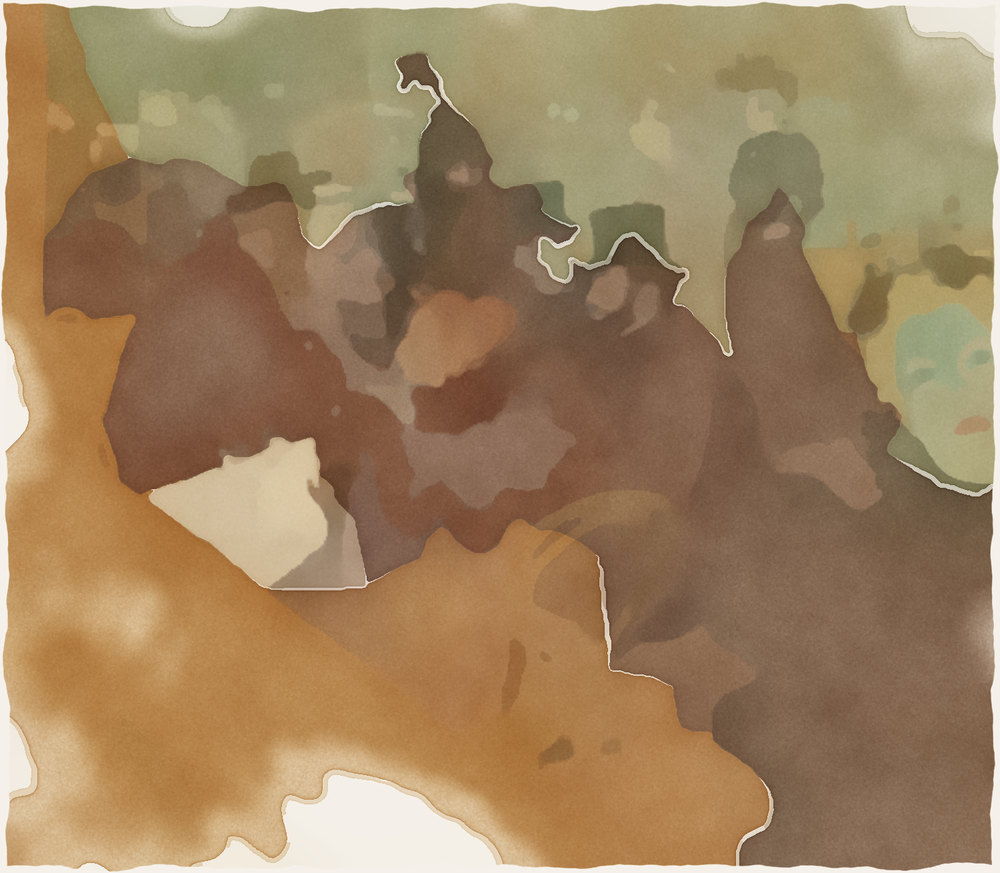
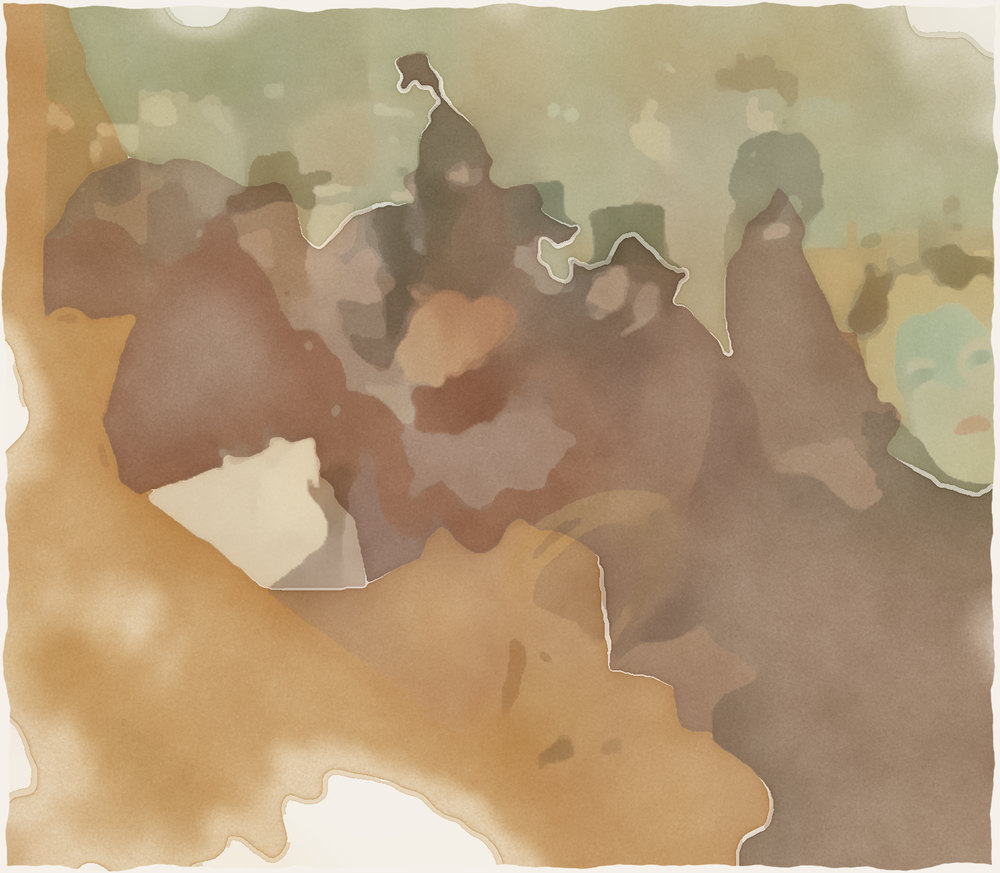
Composition sheet: the wash comes up evenly and is as light as before
Mateusz 2026-11-12 10:54 UTC, having seen round 5: the sheet drawing
itself is right; "akwarela niech płynnie wchodzi po całości, a nie
'rozlewa się'" and "akwarela jednak jaśniejsza - tak jak wcześniej".

- App: the stains' mask is the whole sheet rising in opacity
  (SheetPlan.washShown), no longer blooms spreading from places.
- Server: LOOK 4 lays the light page's stains as light as before LOOK 3
  (DEPTH and BARE_MOST_LIGHT are gone); the fewer, flatter masses, the
  hatching and the two layers stay. Sheets are made again.
- Demo sheets rendered again (only the light washes change).

Claude-Session: https://claude.ai/code/session_011kjvXCCNEnKht2VyfVZLdn

diff --git a/ios/Frame/Views/Discover/SheetDrawing.swift b/ios/Frame/Views/Discover/SheetDrawing.swift
@@ -2,7 +2,7 @@ import SwiftUI
 
 /// The study sheet laid down before the reader, as if made now: the pen
 /// first, stroke after stroke along the lines the server drew it by, then
-/// the stains spreading under it and the pen shading the dark parts, then
+/// the stains coming up under it and the pen shading the dark parts, then
 /// (told through `onMarks`) the chalk. Mateusz 2026-11-12, having waited
 /// on an empty ruled sheet: "Czy mógłby pojawiać się szybciej? malować /
 /// rysować się na żywo?".
@@ -120,7 +120,7 @@ enum SheetPlan {
     static let pen = 1.5
     /// The least a stroke takes, however short.
     static let dash = 0.14
-    /// The stains spread from here on, for this long.
+    /// The stains come up from here on, for this long.
     static let washFrom = 0.8
     static let wash = 1.7
     /// The pen shades the dark parts (and whatever of it the strokes left).
@@ -200,46 +200,19 @@ enum SheetPlan {
         )
     }
 
-    /// Where a stain starts to spread and when (of the wash's time, 0…1),
-    /// on a sheet cut into cells of about a third of its short side; the
-    /// same for the same sheet.
-    static func blooms(in size: CGSize) -> [(centre: CGPoint, from: Double, reach: CGFloat)] {
-        let cell = max(40, min(size.width, size.height) / 3)
-        let columns = max(2, Int((size.width / cell).rounded())), rows = max(2, Int((size.height / cell).rounded()))
-        let wide = size.width / CGFloat(columns), tall = size.height / CGFloat(rows)
-        var out: [(centre: CGPoint, from: Double, reach: CGFloat)] = []
-        for row in 0..<rows {
-            for column in 0..<columns {
-                let seed = row * 31 + column * 7
-                let x = (CGFloat(column) + 0.25 + 0.5 * CGFloat(Pencil.Jitter.random(seed + 1))) * wide
-                let y = (CGFloat(row) + 0.25 + 0.5 * CGFloat(Pencil.Jitter.random(seed + 2))) * tall
-                // Each a little after its neighbour to the upper left, none in step.
-                let along = Double(row + column) / Double(max(1, rows + columns - 2))
-                let from = 0.45 * (0.7 * along + 0.3 * Pencil.Jitter.random(seed + 3))
-                out.append((centre: CGPoint(x: x, y: y), from: from, reach: 1.15 * hypot(wide, tall)))
-            }
-        }
-        return out
+    /// How much of the stains shows at `time` (0…1): they come all over
+    /// the sheet at once, slowly at first and at the end. Mateusz
+    /// 2026-11-12 10:54, of the stains that spread from places: "akwarela
+    /// niech płynnie wchodzi po całości, a nie 'rozlewa się'".
+    static func washShown(at time: Double) -> Double {
+        let part = min(1, max(0, (time - washFrom) / wash))
+        return part * part * (3 - 2 * part)
     }
 
-    /// The stains at `time`: each spreading from its place with a soft
-    /// edge, as paint runs into wet paper, until they are one.
+    /// The stains at `time`: the whole of them, as far as they show.
     static func washMask(in context: inout GraphicsContext, size: CGSize, time: Double) {
-        let spread = min(1, max(0, (time - washFrom) / wash))
-        guard spread > 0 else { return }
-        var soft = context
-        soft.addFilter(.blur(radius: max(8, 0.035 * min(size.width, size.height))))
-        soft.drawLayer { layer in
-            for bloom in blooms(in: size) {
-                let grown = min(1, max(0, (spread - bloom.from) / (1 - 0.45)))
-                guard grown > 0 else { continue }
-                // Quick at first, slowing as the paint thins out.
-                let radius = bloom.reach * CGFloat(1 - pow(1 - grown, 2.2))
-                layer.fill(
-                    Path(ellipseIn: CGRect(x: bloom.centre.x - radius, y: bloom.centre.y - radius, width: 2 * radius, height: 2 * radius)),
-                    with: .color(.black)
-                )
-            }
-        }
+        let shown = washShown(at: time)
+        guard shown > 0 else { return }
+        context.fill(Path(CGRect(origin: .zero, size: size)), with: .color(.black.opacity(shown)))
     }
 }

diff --git a/ios/FrameTests/CompositionSheetTests.swift b/ios/FrameTests/CompositionSheetTests.swift
@@ -265,13 +265,15 @@ final class CompositionSheetTests: XCTestCase {
         XCTAssertEqual(SheetPlan.line(ring, in: size).last, CGPoint.zero)
         XCTAssertGreaterThan(SheetPlan.line(DailyWork.Stroke(points: open.points), in: size).count, 10)
         XCTAssertTrue(SheetPlan.line(DailyWork.Stroke(points: [Spot(x: 0, y: 0)]), in: size).isEmpty)
-        // The stains spread from places all over the sheet, each reaching
-        // past its neighbours, the same every time.
-        let blooms = SheetPlan.blooms(in: CGSize(width: 390, height: 280))
-        XCTAssertGreaterThanOrEqual(blooms.count, 6)
-        XCTAssertTrue(blooms.allSatisfy { $0.from >= 0 && $0.from <= 0.45 && $0.reach > 100 })
-        XCTAssertTrue(blooms.allSatisfy { CGRect(x: 0, y: 0, width: 390, height: 280).contains($0.centre) })
-        XCTAssertEqual(SheetPlan.blooms(in: CGSize(width: 390, height: 280)).map { $0.centre }, blooms.map { $0.centre })
+        // The stains come up all over the sheet at once, evenly, not from
+        // places (Mateusz 2026-11-12 10:54): nothing before their time,
+        // half of them half-way, all of them at the end, never going back.
+        XCTAssertEqual(SheetPlan.washShown(at: SheetPlan.washFrom), 0)
+        XCTAssertEqual(SheetPlan.washShown(at: SheetPlan.washFrom + SheetPlan.wash / 2), 0.5, accuracy: 1e-9)
+        XCTAssertEqual(SheetPlan.washShown(at: SheetPlan.washFrom + SheetPlan.wash), 1)
+        XCTAssertEqual(SheetPlan.washShown(at: SheetPlan.whole), 1)
+        let rising = stride(from: 0.0, through: SheetPlan.whole, by: 0.05).map { SheetPlan.washShown(at: $0) }
+        XCTAssertTrue(zip(rising, rising.dropFirst()).allSatisfy { $0.0 <= $0.1 })
         // The sheet's pictures: whole from a server before the layers, else
         // its stains and its pen, for the page's colour.
         XCTAssertEqual(CompositionSketch.sheetRefs("", layers: true, dark: false), [])

diff --git a/server/src/frame_server/imaging/sheet.py b/server/src/frame_server/imaging/sheet.py
@@ -50,9 +50,6 @@ kredy rysujemy białe, to akwarelowe tło mogłoby być trochę ciemniejsze",
 … 'szkicować'/kreskować ciemniejsze partie", and the sheet should "malować
 / rysować się na żywo". So (:data:`LOOK` 3):
 
-- the light page's stains carry more paint (:data:`DEPTH`) and less of the
-  page is left bare there (:data:`BARE_MOST_LIGHT`): white chalk has to
-  show on them;
 - the masses are fewer and flatter (:data:`MASSES`, what happens inside a
   stain counts for less);
 - the pen shades the darker parts with slanted lines, here and there
@@ -61,6 +58,11 @@ kredy rysujemy białe, to akwarelowe tło mogłoby być trochę ciemniejsze",
   the pen drew with nothing around it, which the app lays down one after
   the other before the reader; :func:`render` is the two as one, for apps
   from before that.
+
+That look also laid the light page's stains deeper and left less of it
+bare. Seen on the page, he took the darker ground back (2026-11-12 10:54:
+"akwarela jednak jaśniejsza - tak jak wcześniej"): :data:`LOOK` 4 lays the
+stains as light as before it, and keeps the rest.
 
 No model is asked here; about four seconds a sheet (``sheets.Sheets``
 makes them ahead).
@@ -85,7 +87,7 @@ Array = npt.NDArray[Any]
 PenStroke = tuple[Sequence[tuple[float, float]], bool, bool]
 
 #: Raised when the look changes, so that sheets made before are made again.
-LOOK = 3
+LOOK = 4
 #: The sheet's longer side.
 LONG = 1500
 #: The app's page and ink (``Theme.paper``, ``Theme.ink``): light, dark.
@@ -103,10 +105,6 @@ QUIET_LEAST = 0.06
 ALIKE = 20.0
 #: Neighbours this near in colour are one stain anywhere.
 SAME = 16.0
-#: How much deeper than a first wash the stains are laid on the light page:
-#: the marks over them are white chalk (Mateusz 2026-11-12: "akwarelowe tło
-#: mogłoby być trochę ciemniejsze").
-DEPTH = 1.45
 #: The first pale wash under the stains, where things happen.
 FIRST = 0.3
 #: What decides where the page is left bare in a quiet place: how near the
@@ -123,8 +121,6 @@ GAP = 0.38
 #: the field that is left bare (a picture that is all sky is still painted).
 BARE_THIN = 0.2
 BARE_MOST = 0.3
-#: Less of it on the light page: white chalk is lost on bare paper.
-BARE_MOST_LIGHT = 0.2
 #: How much of the ink a stroke of the nib lays, and its width.
 NIB_INK = 0.66
 NIB = 3.3
@@ -474,7 +470,7 @@ def layers(
     rim = np.clip(1 - inset / (0.3 * min(h, w)), 0, 1)
     chance = _noise((h, w), 0.07 * max(h, w), rng) * 0.8 + _noise((h, w), 18, rng) * 0.2
     bare = (1 - lively) * (BARE_NEAR * near_map + BARE_RIM * rim + BARE_CHANCE * chance)
-    level = max(BARE, float(np.quantile(bare, 1 - (BARE_MOST if dark else BARE_MOST_LIGHT))))
+    level = max(BARE, float(np.quantile(bare, 1 - BARE_MOST)))
     painted = bare < level
     # towards a bare place the wash runs thin before it stops
     thin = np.clip((level - bare) / BARE_THIN, 0, 1)
@@ -532,7 +528,7 @@ def layers(
             canvas[part] = canvas[part] * (1 - alpha[..., None]) + (tint**1.3) * alpha[..., None]
             cover[part] = 1 - (1 - cover[part]) * (1 - alpha)
         else:
-            canvas[part] *= tint ** (aa * load * inside[part] * DEPTH)[..., None]
+            canvas[part] *= tint ** (aa * load * inside[part])[..., None]
             canvas[part] *= flat ** ((1 - aa) * halo_load * inside[part])[..., None]
     page, ink = _colour(PAGE[dark]), _colour(INK[dark])
     sheet = np.empty((h, w, 3), np.float32)

diff --git a/server/tests/test_sheet.py b/server/tests/test_sheet.py
@@ -99,15 +99,23 @@ def test_where_little_happens_the_wash_is_general_and_leaves_the_page() -> None:
     # paint still lies around what happens (the house).
     light = sheets.render(_scene(), seed=3)
     left = _bare(light)
-    # (Less of it on the light page, where white chalk has to show: Mateusz
-    # 2026-11-12 09:47, "akwarelowe tło mogłoby być trochę ciemniejsze".)
-    assert 0.1 < left.mean() <= sheets.BARE_MOST_LIGHT + 0.04
+    # (As much on the light page as on the dark one, and the stains as
+    # light as before the darker ground he tried: Mateusz 2026-11-12 10:54,
+    # "akwarela jednak jaśniejsza - tak jak wcześniej".)
+    assert 0.1 < left.mean() <= sheets.BARE_MOST + 0.04
     assert left[40:140, 1300:1480].mean() > 0.9  # the far sky
     assert not left[330:780, 430:860].any()  # the house and what is round it
     night = _bare(sheets.render(_scene(), dark=True, seed=3), dark=True)
     assert 0.05 < night.mean() <= sheets.BARE_MOST + 0.04
     # Where something happens everywhere, all is painted but the ragged edge.
     assert _bare(sheets.render(_crowd(), seed=3))[60:940, 60:1440].mean() < 0.01
+    # The stains stay a wash, clearly lighter than the picture they come
+    # from, even where all is painted (the darker ground of the look before
+    # was hardly lighter than the picture; he took it back).
+    crowd = _crowd()
+    washed = np.asarray(sheets.render(crowd, seed=3), np.float32)[100:-100, 100:-100]
+    painted = np.asarray(crowd.resize((washed.shape[1] + 200, washed.shape[0] + 200)), np.float32)
+    assert washed.mean() > painted[100:-100, 100:-100].mean() + 0.06 * 255
 
 
 def _halves(seed: int = 2) -> Image.Image:
